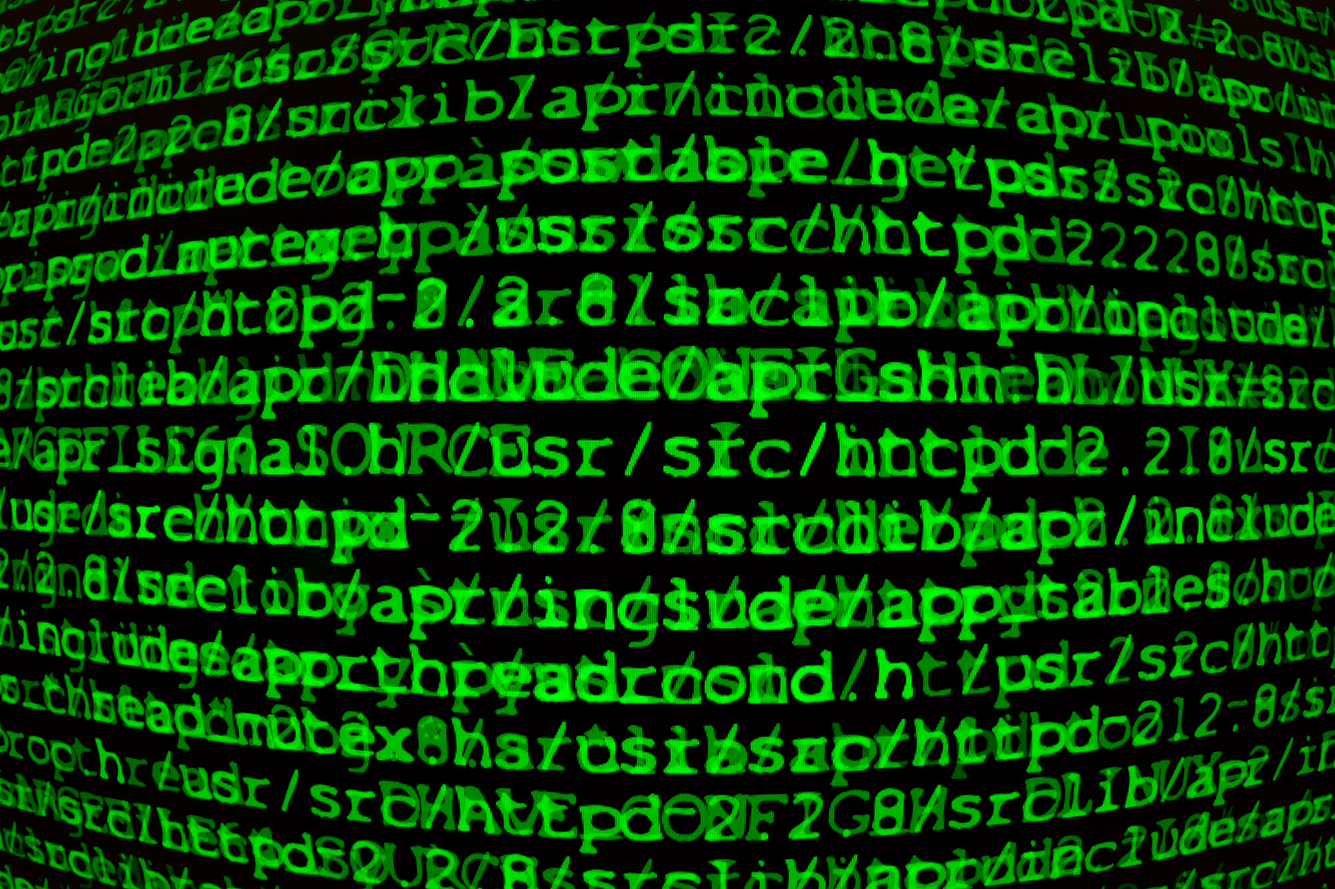
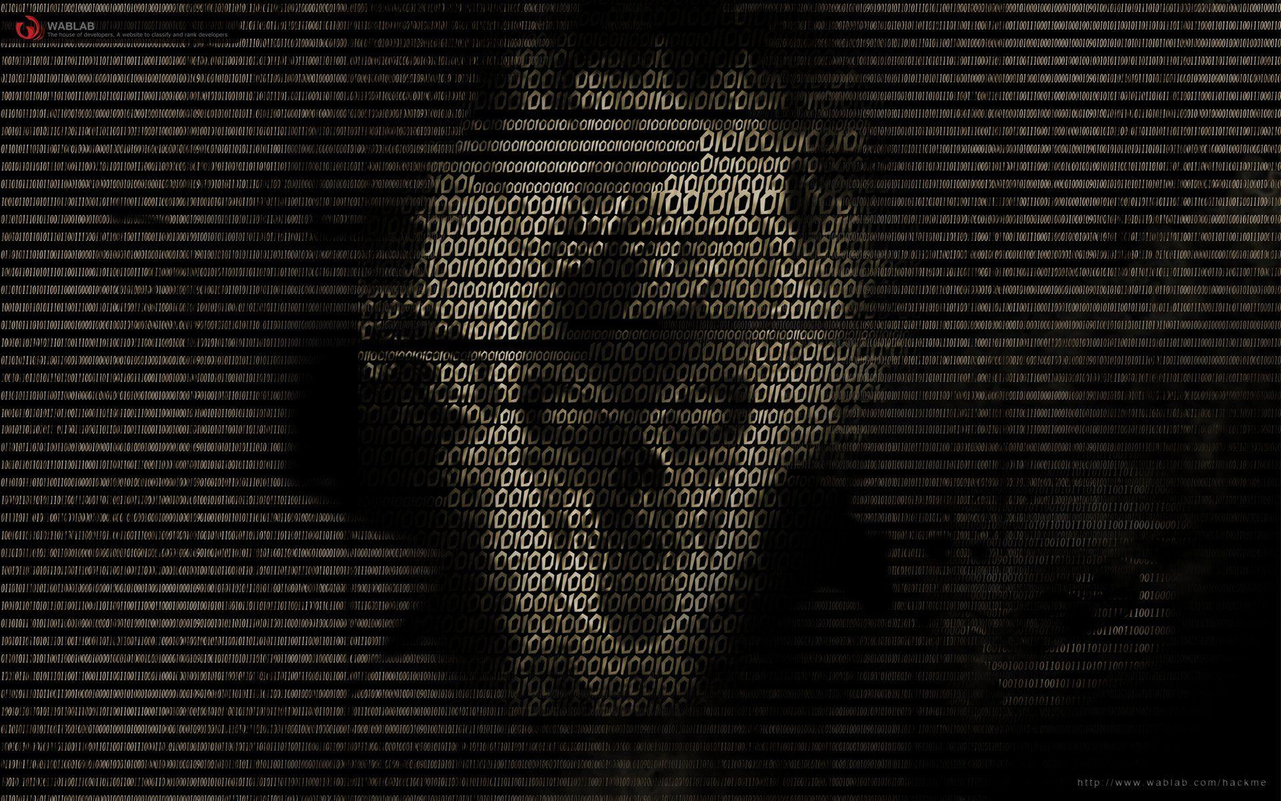
Updates

diff --git a/css/style.css b/css/style.css
@@ -5,6 +5,9 @@ body {
     font-family: 'Courier New', monospace;
     background: url('../img/bg-pattern.png') #0a0a0a;
     color: #00ff00;
+    backdrop-filter: blur(10px);
+    -webkit-backdrop-filter: blur(10px);
+    
 }
 
 .cyber-nav {
